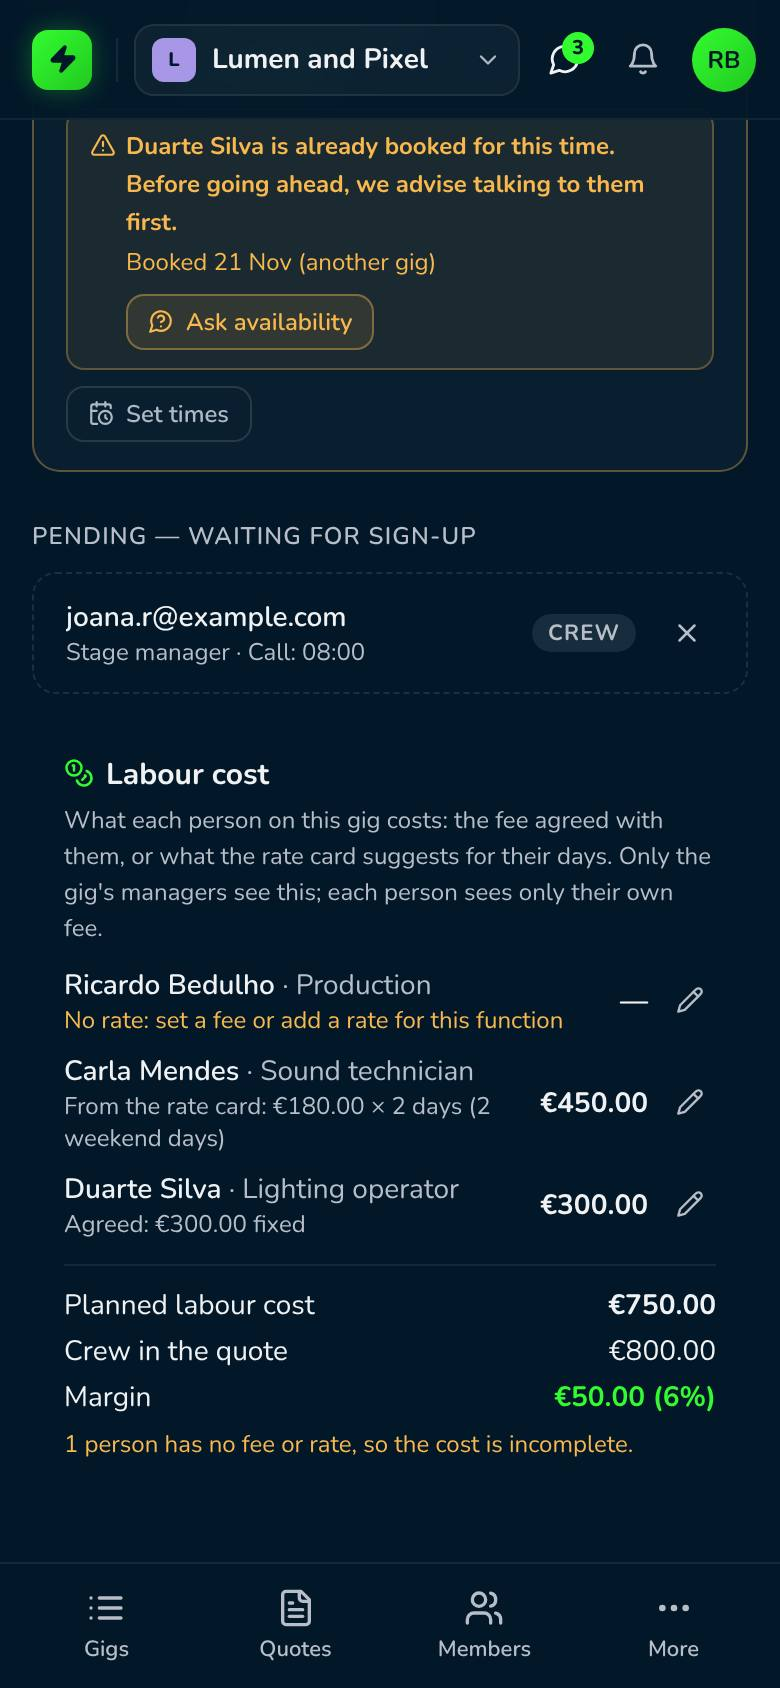
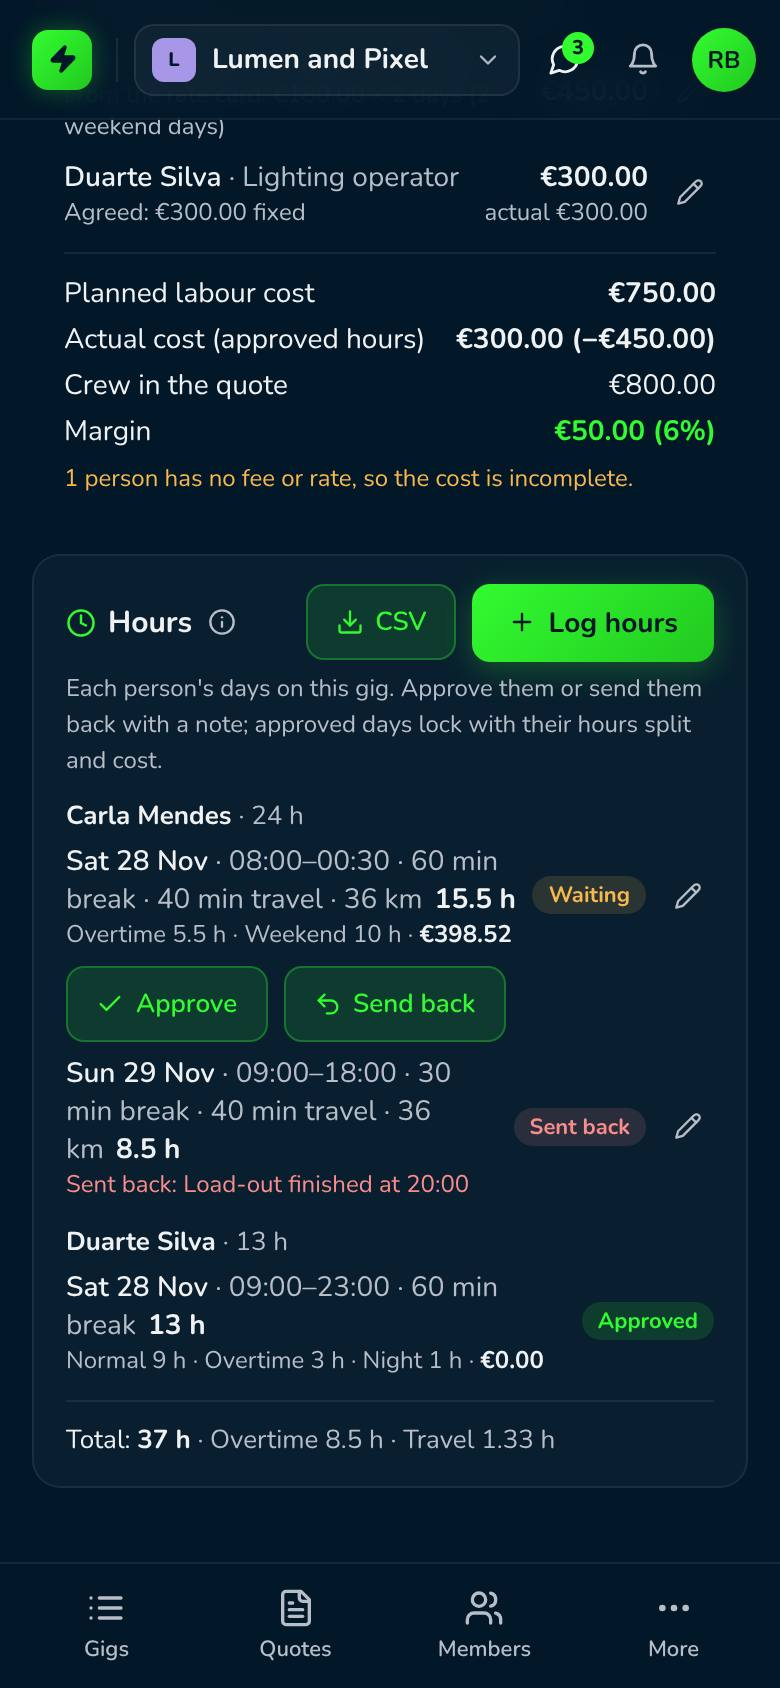
Time registration: hours per day, approval, actual labour cost (step 8) — 0.66.0
Claude-Session: https://claude.ai/code/session_01TrujDGPejevpTkpUHn1YdN

diff --git a/src/lib/timeRegistration.js b/src/lib/timeRegistration.js
@@ -182,13 +182,16 @@ export function personActual(entries, fee) {
 // Hours totals over a list of entries (approved ones carry their stored split)
 export function totals(entries, factors, orgHolidays) {
   const out = Object.fromEntries([...BUCKETS, 'worked', 'travel', 'km', 'cost'].map(k => [k, 0]))
+  let travelMinutes = 0
   for (const e of entries || []) {
     if (e.removed_at) continue
     const s = e.status === 'approved' && e.split ? e.split : splitEntry(e, factors, orgHolidays)
     if (!s) continue
-    for (const k of [...BUCKETS, 'worked', 'travel', 'km']) out[k] = round2(out[k] + (Number(s[k]) || 0))
+    for (const k of [...BUCKETS, 'worked', 'km']) out[k] = round2(out[k] + (Number(s[k]) || 0))
+    travelMinutes += e.travel_minutes != null ? Number(e.travel_minutes) || 0 : (Number(s.travel) || 0) * 60
     if (e.status === 'approved') out.cost = round2(out.cost + (Number(e.cost) || 0))
   }
+  out.travel = round2(travelMinutes / 60)
   return out
 }
 

diff --git a/src/lib/timeRegistration.test.js b/src/lib/timeRegistration.test.js
@@ -99,6 +99,9 @@ describe('totals, prefill and CSV', () => {
       { status: 'approved', split: { normal: 5, worked: 5 }, cost: 1, removed_at: 'x' },
     ], factors)
     expect(t).toMatchObject({ normal: 12, worked: 12, cost: 240 })
+    const two = [{ status: 'submitted', work_date: '2026-12-02', start_time: '09:00', end_time: '10:00', travel_minutes: 40 },
+      { status: 'submitted', work_date: '2026-12-03', start_time: '09:00', end_time: '10:00', travel_minutes: 40 }]
+    expect(totals(two, factors).travel).toBe(1.33)
   })
   it('prefills from the schedule for the day', () => {
     const schedule = [{ day: '2026-12-04', start_time: '10:00:00', end_time: '12:00:00' }, { day: '2026-12-04', start_time: '20:00:00', end_time: '23:30:00' }]

diff --git a/src/components/gig/LabourCost.jsx b/src/components/gig/LabourCost.jsx
@@ -32,7 +32,7 @@ export function LabourCost({ gig, members, nameOf, refreshKey }) {
   const [editing, setEditing] = useState(null) // labour line
 
   const load = useCallback(async () => {
-    const [f, q, h] = await Promise.all([
+    const [f, h, q] = await Promise.all([
       supabase.from('gig_crew_fees').select('user_id, unit, rate, quantity, note').eq('gig_id', gig.id),
       supabase.from('time_entries').select('user_id, status, cost, removed_at').eq('gig_id', gig.id).eq('status', 'approved').is('removed_at', null).limit(2000),
       gig.org_id ? supabase.from('quotes').select('id, status, body, discount_pct, created_at, updated_at').eq('gig_id', gig.id) : { data: [] },

diff --git a/docs/BUSINESS.md b/docs/BUSINESS.md
@@ -56,7 +56,7 @@ When a step here is built, its session adds a "How … works" section below in t
 | Cost | `src/lib/crewRates.js`: the most specific rate (person in function, person, function; names compared ignoring case), the booked days (the person's booking, else the gig's dates), weekend days × the weekend factor, an agreed fee instead when set. Revenue: crew lines of the accepted quote (else the newest not declined) after its discount |
 | Screens | Organisation settings (`OrgCrewRatesSettings`), the gig's Crew tab (`LabourCost` for managers, `MyFee` for crew) |
 | Export | Three files (`crew_rates`, `crew_rate_factors`, `gig_crew_fees`). The export function was renamed `export_org_part_base` and is wrapped by the new one, which handles these parts (migration `20261203000001_export_crew_rates.sql`) |
-| Not yet | Overtime, night and holiday factors (step 8) |
+| Later | Overtime, night and holiday factors are used by time registration (step 8, below) |
 
 ## How crew-rate follow-ups work (step 7b, 0.65.0)
 
@@ -69,32 +69,25 @@ When a step here is built, its session adds a "How … works" section below in t
 | Suggestions | `src/lib/crewRates.js`: `feeFromForm` (a fee form → the fee to send), `offerFee` (a job board offer starts from the applicant's day rate, else the post's pay: per day × the post's days, per job fixed, per hour with the hours to fill in; euros only), `functionRate` (a function's rate under any of its names), `callFee` (the rate card's suggestion for the gig's days; with weekend days at a higher rate it becomes one fixed amount), `jobPay` (day rate per day, else hour rate per hour), `quoteLineCost` and `quoteCrewMargin` (a crew line's description is its function; per day uses the day rate, per hour the hour rate, × quantity × factor) |
 | Screens | `FeeFields` and `useFeeForm` (`components/gig/FeeFields.jsx`), shared by `CrewCallModal` (the function's rate), Find crew's offer (`ContactModal`: the person's own rate first, then the function's) and the job board's `OfferModal` (which replaced the browser confirm box); each fills from its suggestion until edited. `CrewCallList` and the chat offer card (`EventCard`) show the fee; the notification adds it. `PostJobModal` fills pay from the card for the function or title until someone types their own. The quote editor shows each crew line's cost and margin under it, and the Summary tab a "Crew margin" block; only for EUR quotes, and never in `QuoteDocument` (print, PDF, client link) |
 
+## How time registration works (step 8, 0.66.0)
+
+| Piece | How it works |
+|---|---|
+| Data | `time_entries`: one row per person, gig and day (start, end, break, travel minutes, km, note; an end at or before the start runs past midnight). Status `submitted` → `approved` or `returned` (with `review_note`). Approved rows keep `split` (normal, overtime, night, weekend, holiday, worked, travel, km hours), `fee_unit`, `fee_rate` and `cost` as they were at approval. `crew_rate_factors` gained `night_from`, `night_until` (default 22:00–07:00) and `km_rate`. `org_holidays`: the organisation's own days. Removing marks (`removed_at`). Migration `20261212000000_time_registration.sql` |
+| Who | Each person writes their own days; the gig's managers (`can_manage_gig`: PMs, the creator, org admins) write for anyone on the gig and read everyone's. Crew never read others' hours or money. Approved days can't be changed by anyone. Only `review_time_entry` sets the status, split and cost. Org members not managing the gig see nothing; org admins see all (the Hours page). Checks in `supabase/tests/time_registration.sql` |
+| Maths | `src/lib/timeRegistration.js` (unit tested): Portuguese national holidays (Easter-based ones computed) plus the organisation's; each minute of the shift gets its highest factor (ties: holiday > weekend > overtime > night); overtime starts after `overtime_after_hours` of work; the break is taken from the cheapest non-overtime minutes. Cost: hour fee = hours × rate × factor; day / half-day fee = the rate per day worked + hourly equivalent (rate ÷ overtime hours, or half of them) × overtime factor for overtime hours and × (factor − 1) for night, weekend and holiday hours; fixed fee = km only per day, the fee itself once per gig (`personActual`). Travel at the plain hourly rate; km × `km_rate`. Price: the agreed fee, else the rate card (hour, day, half-day rate) |
+| Approval | The app works out the split and cost (`approval` in `src/lib/hours.js`) and sends them to `review_time_entry`, which checks the split adds up to the worked hours and stores it. Freelance PMs get the factors and holidays from `time_settings`; without an agreed fee they approve with no cost. Notifications: `hours_submitted` to the approvers (the gig's PMs and creator, else the org admins; one unread per person), `hours_approved` / `hours_returned` to the person |
+| Offline | `src/lib/hours.js`: days typed without a connection are kept on the phone (per user) with their id and sent when the connection returns (App flushes on `online`); cleared on sign-out |
+| Screens | `components/hours/GigHours.jsx` on the gig's Crew tab (crew: their own; managers: everyone, approve, send back, approve all, CSV); `HoursParts.jsx` (the day form, rows, status); `ClockInOut.jsx` in On-site mode; `pages/HoursPage.jsx` at `/me/hours` (My work) and `/org/:orgId/hours` (admins), per month with CSV; the labour panel shows the actual cost next to the planned; Crew rates settings have the night window, km rate and holidays |
+| Export and feed | Organisation export: `time_entries` and `org_holidays` files, the factors file with the new columns (the export function was renamed `export_org_part_pre_step8` and wrapped). The calendar feed lists the person's own logged days in each gig's description |
+| Reports | K2, K7 and K8 read approved `time_entries` (`split`, `cost`); a fixed fee is added once per person and gig |
+
 ## Planned
 
 Specs for the business steps still to build, in ROADMAP.md order. Each is a starting point: the
 session that builds it reads its spec, checks it against the code, and **asks the owner the
 questions marked "Ask" before outlining the migration**. When built, the spec is replaced by a
 "How … works" section above.
-
-### 8 · Time registration [2]
-
-- Each person on a gig logs **hours per day**: start, end, break, plus travel time and kilometres
-  (optional). Prefilled from their booking (`gig_members.booked_from/until`) or the gig's schedule.
-- **Overtime and factors** from `crew_rate_factors`: hours past `overtime_after_hours` in a day,
-  weekend days, night hours (Ask: which window counts as night, e.g. 00:00–07:00?), public holidays
-  (Ask: a Portuguese holiday list built in, or the organisation types its own?).
-- **Approval:** the gig's managers approve or send back with a note; approved hours are locked.
-  The person is notified both ways.
-- **Money:** approved hours × the agreed fee or rate → **actual labour cost**, shown next to the
-  planned cost in the labour panel (step 7). Fixed fees ignore hours.
-- **History stays true:** each approved day keeps its hours split (normal, overtime, night,
-  weekend, holiday) and its cost as they were at approval, so a later rate change never rewrites
-  past costs (reports K2, K7 and K8 read them).
-- **Views:** the person's own hours (My work), the gig's hours (Crew tab), an organisation view per
-  person and month. CSV export, and a "hours" file in the organisation export.
-- **Who:** each person writes their own; managers write for anyone on the gig; crew never see
-  others' hours or money.
-- Offline: hours can be typed without a connection and sent later (like rehearsal notes).
 
 ### 9 · Leave requests [5]
 

diff --git a/docs/PENDING.md b/docs/PENDING.md
@@ -107,6 +107,7 @@ Use your second email address as a crew member. Each line is a few minutes. New 
 | T66 | **Backups and restore drill (0.63.11):** no database change. Actions → *Database backup* → Run workflow; with `SUPABASE_SERVICE_ROLE_KEY` set the artifact holds two files (`avx-db-….dump.gpg` and `avx-files-….tar.gz.gpg`), without it one. Then run the [restore drill](BACKUPS.md#restore-drill) end to end and write the result in its log | 0.63.11 |
 | T67 | **Capture for reports (K0, 0.64.0):** migrations `20261210000000_report_capture.sql`, `20261210000001_import_gig_client.sql` and `20261210000002_import_item_cost.sql` applied to test and production through the Supabase connector on 2026-11-02; `supabase/tests/report_capture.sql` and `supabase/tests/import_jobs.sql` passed on test, and the function bodies are identical on both. Nothing left to deploy (no Edge Function changed); the screens go live when the PR is merged. Check: in a quote, set the status to Declined: it asks why (pick one, or Skip); the button next to the status shows the reason. Send a quote to yourself and decline it through the link with a note: the quote shows Declined and the note is kept. Create a gig and pick a client; edit it and change the client; as a crew member who manages a gig, the client field isn't there. In a quote with a client, "Create gig": the new gig has that client. In Inventory, edit an item: Cost price and Written off over (months); Add stock → Purchase starts with the cost price; Remove → Sold asks the price each; set a unit to Retired: it asks its sale or payout value and date. Record an inspection with a cost. Import a jobs file whose client column matches a client in Contacts, and an equipment file with a "Cost price" column. Download the organisation export: the new columns are in the items, units, movements, gigs, quotes and inspections files. Check the Portuguese wording | 0.64.0 |
 | T68 | **Crew-rate follow-ups (step 7b, 0.65.0):** migrations `20261211000000_crew_call_fees.sql` and `20261211000001_offer_fees.sql` applied to test and production through the Supabase connector on 2026-11-04; `supabase/tests/crew_call_fees.sql` passed on test, and the function bodies are identical on both. Nothing to deploy; the screens go live when the PR is merged. Check, as an organisation admin with a rate for a function (e.g. "Sound technician", 200 per day): on a gig's Crew tab → Crew call, type that function: the fee fills in (a gig with weekend days and a weekend factor gives one fixed amount); change it, then "Use the rate card's fee". Send it to a test account: their message and notification show the fee; they accept; your "Labour cost" shows them as "Agreed" with that fee, and they see it under "Your fee". Post a job and choose the function (or type the title): the pay fills in from the day rate; typing your own amount keeps it. In Find crew, "Offer a place" to someone: the same fee fields, using their own rate if they have one. In Job posts → Applicants, "Offer the place": a window shows the fee from the rate they sent (or the post's pay), editable; the old OK/Cancel box is gone. Accepting either offer makes the fee agreed under "Labour cost". In a quote, a crew line whose description is the function shows "Rate card cost … · margin …" under it, and the Summary tab shows "Crew margin"; the printed quote, the PDF and the client's link don't. Check the Portuguese wording | 0.65.0 |
+| T69 | **Time registration (step 8, 0.66.0):** migration `20261212000000_time_registration.sql` applied to test and production through the Supabase connector on 2026-11-04; `supabase/tests/time_registration.sql` (both blocks) passed on test, and the ten function bodies are identical on both. **After merging, deploy three Edge Functions to production and test** (they use the new notification texts and the feed's hours): `send-push` and `send-digest` (Verify JWT off, as now) and `calendar-feed` (Verify JWT off), or ask Claude to. Check, as an organisation admin: Settings → Crew rates: set the night window, a rate per km and add a holiday. On a gig with a test crew account: as the crew member, Crew tab → "Log hours" (start and end come from the booking or schedule), add a break, travel and km, send; turn off Wi-Fi, log another day: it shows "Not sent yet" and goes when Wi-Fi is back. On a gig day, On-site mode → "Clock in", later "Clock out". As the admin: the bell says hours came in; the gig's Hours shows each waiting day's split and cost; send one back with a note (the crew member gets it, edits, it waits again), approve it; it can't be changed after. "Labour cost" shows the actual cost next to the planned. My work → "My hours" and Organisation → "Hours" show the month, with CSV. The crew member never sees anyone else's hours or cost. Download the organisation export: the hours and holidays files are there. Subscribe to your calendar feed: the gig shows your logged hours. Check the Portuguese wording | 0.66.0 |
 
 ## 3. Decisions still open
 
@@ -151,6 +152,7 @@ Each has a default already built; nothing is blocked. Say "keep" or "change".
 | D35 | ✅ (decided 2026-11-03) **Work areas** on a gig: yes, step 20b, after P3 and RG4 | Planned (step 20b) | 2026-11-03 |
 | D36 | ✅ (decided 2026-11-02) **QA bot**: AI tester on each PR before merge; a light live check after each merge and one real sign-up a day; QA accounts tagged by their Mailosaur address so they stay out of your numbers; inbox Mailosaur ([QA.md](QA.md)) | Planned (QA1–QA4) | 2026-11-02 |
 | D37 | **Crew-rate follow-ups (7b)**, built as you decided (fee seen before accepting, one fee per call) plus these defaults: (a) with weekend days at a higher rate, a call offers the total as one fixed amount rather than an average day rate; (b) quote crew lines are matched to the rate card by their description, per day and per hour only (half days, units and lump sums show no cost), and only on EUR quotes; (c) the quote's crew margin is before the phase and quote discounts (the labour panel's margin stays after the discount); (d) a job post's pay uses the day rate, not the weekend factor. Say if any should change | Built as described | 0.65.0 |
+| D38 | **Time registration (step 8)**, built as you decided (night window per organisation from 22:00–07:00, Portuguese holidays built in plus your own, travel at the plain hour rate and km at a rate per km, day fees plus extras) with these defaults: (a) **one entry per person per gig per day** (a split shift is one start–end with the gap as break); (b) the break is taken out of the cheapest hours, and overtime starts after the break; (c) a PM may **approve their own hours**; (d) approved days **can't be reopened**, even by an admin (a mistake needs a database fix) — add an admin "reopen"?; (e) the organisation's Hours page and everyone's cost are **admins only** (members see hours only on gigs they manage), as proposed in D23; (f) a freelance PM approving someone with no agreed fee stores **no cost** (they can't read the rate card); (g) a fixed fee is counted once per gig in the labour panel but **not** in the organisation Hours page's cost, which adds up approved days only. Say if any should change | Built as described | 0.66.0 |
 
 ## 4. Before a public launch (already in the roadmap)
 

diff --git a/CHANGELOG.md b/CHANGELOG.md
@@ -1,5 +1,44 @@
 # Changelog
 
+## 0.66.0 — Hours
+
+### Added
+- **Time registration** (step 8, [docs/BUSINESS.md](docs/BUSINESS.md)). Everyone on a gig logs
+  their hours per day on the gig's Crew tab: start, end, break, and optionally travel time and
+  kilometres. Start and end fill in from their booking or the gig's schedule. An end before the
+  start means they worked past midnight. Without a connection the hours wait on the phone and are
+  sent when it's back.
+- **Clock in / clock out** in On-site mode: one tap when you start, one when you finish, and the
+  day is sent to the gig's hours.
+- **Approval.** The gig's managers see everyone's days, each with its split (normal, overtime,
+  night, weekend and holiday hours) and its cost. They approve a day, or send it back with a note
+  ("Approve all" does every waiting day at once). The person is notified either way, and the
+  managers are notified when hours come in. Approved days are locked, and each keeps its hours
+  split and cost exactly as they were when it was approved, so changing a rate later never
+  rewrites past costs.
+- **How hours are paid**, as decided: overtime after the organisation's "overtime after" hours;
+  night hours in a window the organisation sets (22:00–07:00 to start with); weekends; Portugal's
+  13 national holidays plus the organisation's own days (a town holiday, Carnival). Each hour gets
+  only its highest factor. A day fee pays the day rate plus extras at its hourly equivalent; an
+  hour fee pays hours × rate × factor; a fixed fee ignores hours. Travel time is paid at the plain
+  hour rate; km at a rate per km the organisation sets.
+- **Labour cost** now shows the actual cost from approved hours next to the planned cost, for
+  each person and in total.
+- **My hours** (in My work): your hours on every gig, month by month, with what approved days pay.
+  **Hours** for organisation admins: everyone's hours per person and month, with their approved
+  cost. Both download as CSV, as does each gig's list.
+- Organisation settings → Crew rates: the night window, the rate per km, and your own holidays.
+- Help: two new guides with pictures ("Log your hours on a gig", "Approve crew hours and see the
+  actual labour cost"), three ⓘ hints and a glossary word. The factors hint now explains how the
+  factors apply to hours.
+
+### Connected
+- The labour cost panel (actual next to planned), My work (a "My hours" page), On-site mode
+  (clock in and out), notifications (in the app, by push and in the email summary), your calendar
+  feed (each gig shows the hours you logged on it), and the organisation export (new hours and
+  holidays files; the factors file has the night window and km rate). Reports K2, K7 and K8 will
+  read the approved days' stored hours and cost.
+
 ## 0.65.0 — Fees from the rate card
 
 ### Added

diff --git a/ROADMAP.md b/ROADMAP.md
@@ -23,6 +23,7 @@ up front. What each release changed is in [CHANGELOG.md](CHANGELOG.md).
 | Crew network N1–N5: profiles, Find crew, job board, trust, alerts | 0.48–0.53 | [docs/CREW_NETWORK.md](docs/CREW_NETWORK.md) |
 | Steps 1–4: rehearsal companion R1–R2, DMX calculator D1, On-site mode | 0.54–0.57 | [docs/TOOLS_PLAN.md](docs/TOOLS_PLAN.md) |
 | Steps 5–7b: tasks T1–T2, gig statuses and types, custom fields, crew rates and labour cost, fees in crew calls, job posts and quotes | 0.58–0.65 | [docs/BUSINESS.md](docs/BUSINESS.md) |
+| Step 8: time registration (hours per day, approval, actual labour cost) | 0.66.0 | [docs/BUSINESS.md](docs/BUSINESS.md) |
 | K0: capture for reports (quote dates and lost reasons, a client on gigs, equipment costs) | 0.64.0 | [docs/ANALYTICS.md](docs/ANALYTICS.md) |
 | Truss load tables (data only, waiting for a second check) | 0.60 | [docs/TRUSS_DATA.md](docs/TRUSS_DATA.md) |
 | Privacy and security check: data map, OWASP review, sign-in failure tests | 0.62.1 | [docs/DATA_MAP.md](docs/DATA_MAP.md), [docs/SECURITY_REVIEW.md](docs/SECURITY_REVIEW.md) |
@@ -39,7 +40,6 @@ the data it counts.
 
 | # | What | Needs | Connect | Plan | Prompt |
 |---|---|---|---|---|---|
-| 8 | **Time registration** [2] | 7, schedule | Gig crew tab, labour cost (actual vs planned), calendar feed, export, reports (approved hours kept as approved) | BUSINESS.md | S02 |
 | 9 | **Leave requests** [5] | availability | Clashes, Find crew "free", time registration, reports (working week) | BUSINESS.md | S03 |
 | 9b | **Expenses**: every company cost with its receipt, category, VAT, due and paid dates; recurring costs; linked so each cost counts once | 9, contacts, subrentals, repairs | Subrentals, repairs, crew fees, stock purchases, contacts, organisation export, data map | BUSINESS.md, ANALYTICS.md | S03b |
 | K1 | **Reports engine** [11]: the definitions, one revenue rule, report parts and charts, the Reports area with its Overview; I7 counted in the database | K0, 9b | Inventory → Reports, labour cost panel, organisation Home, menus, usage counts | ANALYTICS.md | K1 |

diff --git a/docs/DATA_MAP.md b/docs/DATA_MAP.md
@@ -39,6 +39,7 @@ is kept on our own servers; Vercel only serves the app's files.
 | Rehearsal notes (text, photo, author, assignee) | Crew | `rehearsal_notes`, `rehearsal_sessions`, `rehearsal-photos` bucket | Everyone on the gig | Contract | Gig deleted |
 | Repairs and inspections: who reported, repairer and inspector names (free text), photos | Staff, outside repairers | `repairs`, `inspections`, `repair-photos` bucket | The organisation's members | Contract (the organisation's records) | Organisation deleted |
 | Crew rates for a person; fees agreed on gigs (rate, quantity, note) | Crew | `crew_rates`, `gig_crew_fees` | Rates: the organisation's admins and members. Fees: the gig's managers, and each person their own | Contract (paying crew) | Removed rates are hidden; organisation or gig deleted |
+| Hours worked per day (start, end, break, travel, km, notes), the approval note, the hours split and cost at approval | Crew | `time_entries` | The gig's managers (its PMs, its creator, the organisation's admins) and each person their own | Contract (paying crew) | Removed days are hidden; gig, organisation or account deleted |
 | Clients and suppliers: names, contacts, email, phone, address, tax id, notes, custom fields | Clients', suppliers' people | `clients`, `suppliers` | The organisation's admins and members | The organisation's (processor) | Changed or cleared by the organisation; organisation deleted |
 | Quotes: client name, company, email, address, tax id; quote answers (name, note) | Clients | `quotes`, `quote_versions`, `quote_shares` | The organisation's quoting people; the client through the link | The organisation's (processor) | Quote or organisation deleted |
 | Crew imported before inviting: name, email, phone, functions | Crew not yet on AVX | `held_invites` | The organisation's admins | The organisation's (processor) | Organisation deleted (*open:* discard sooner) |
